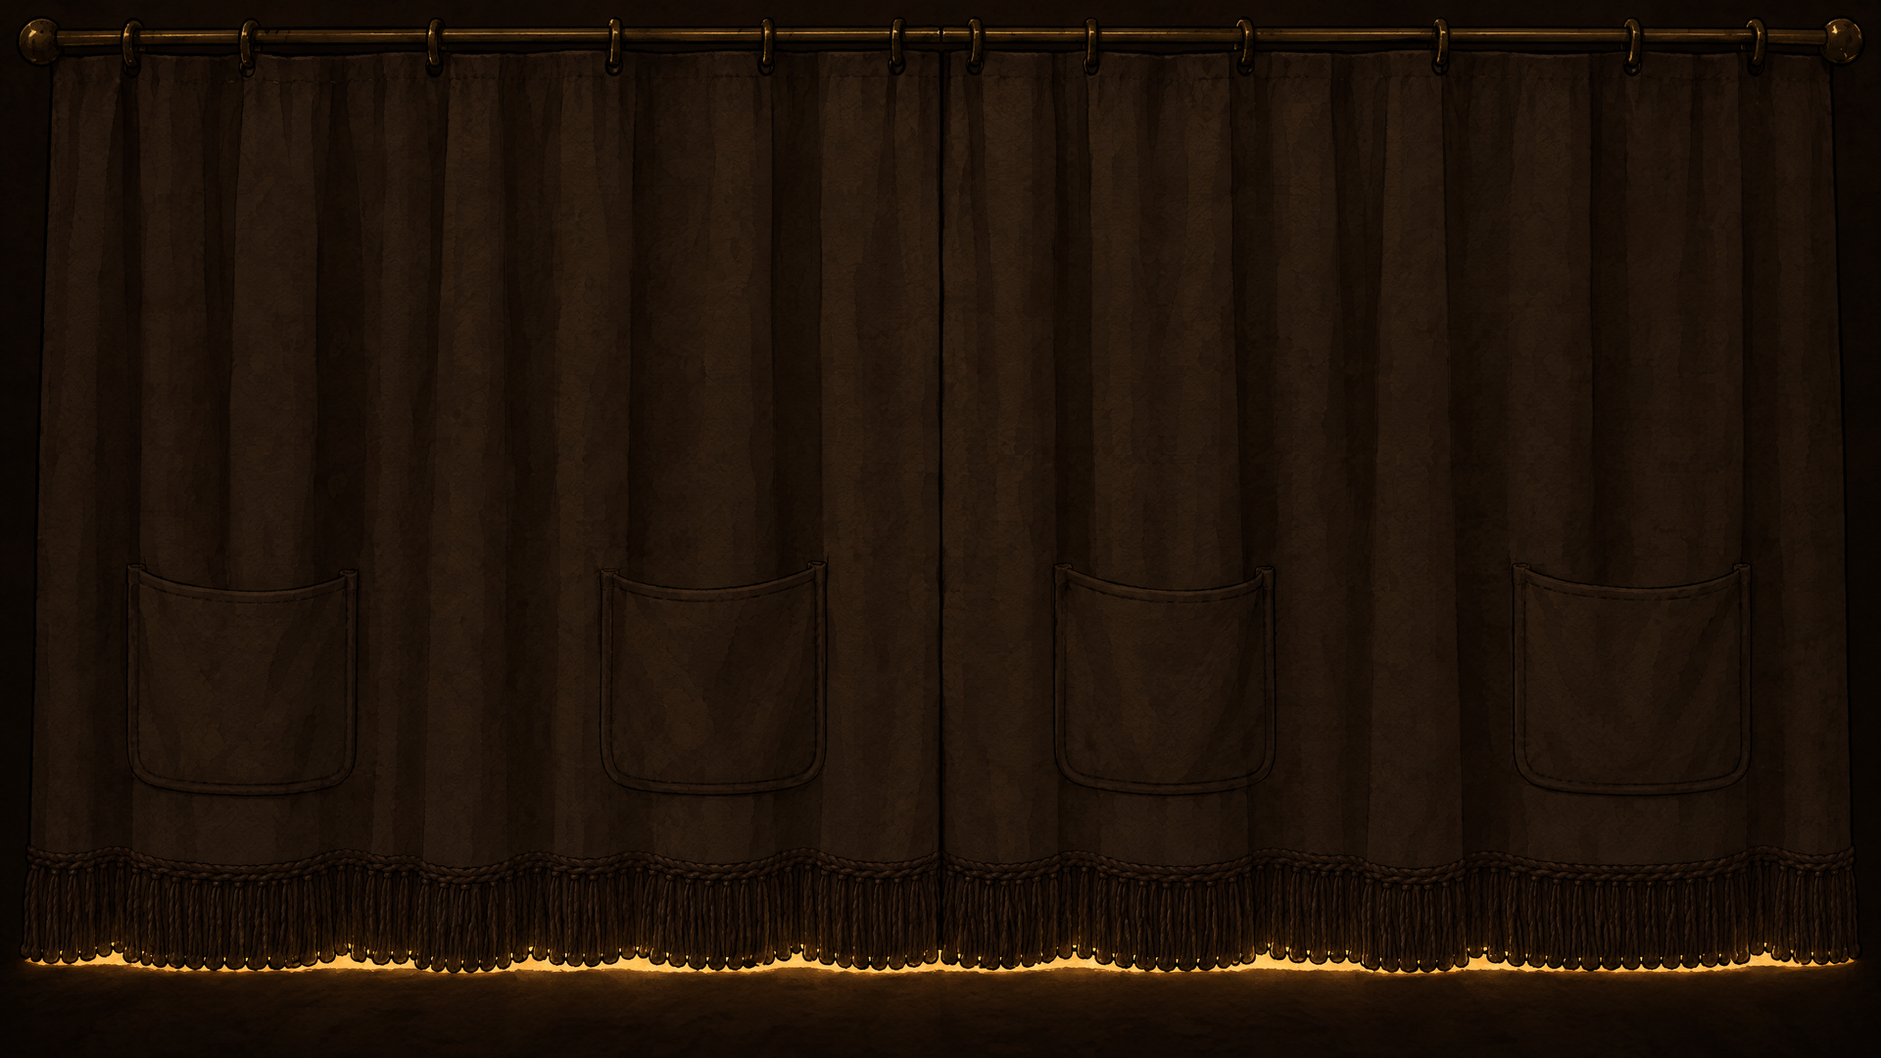
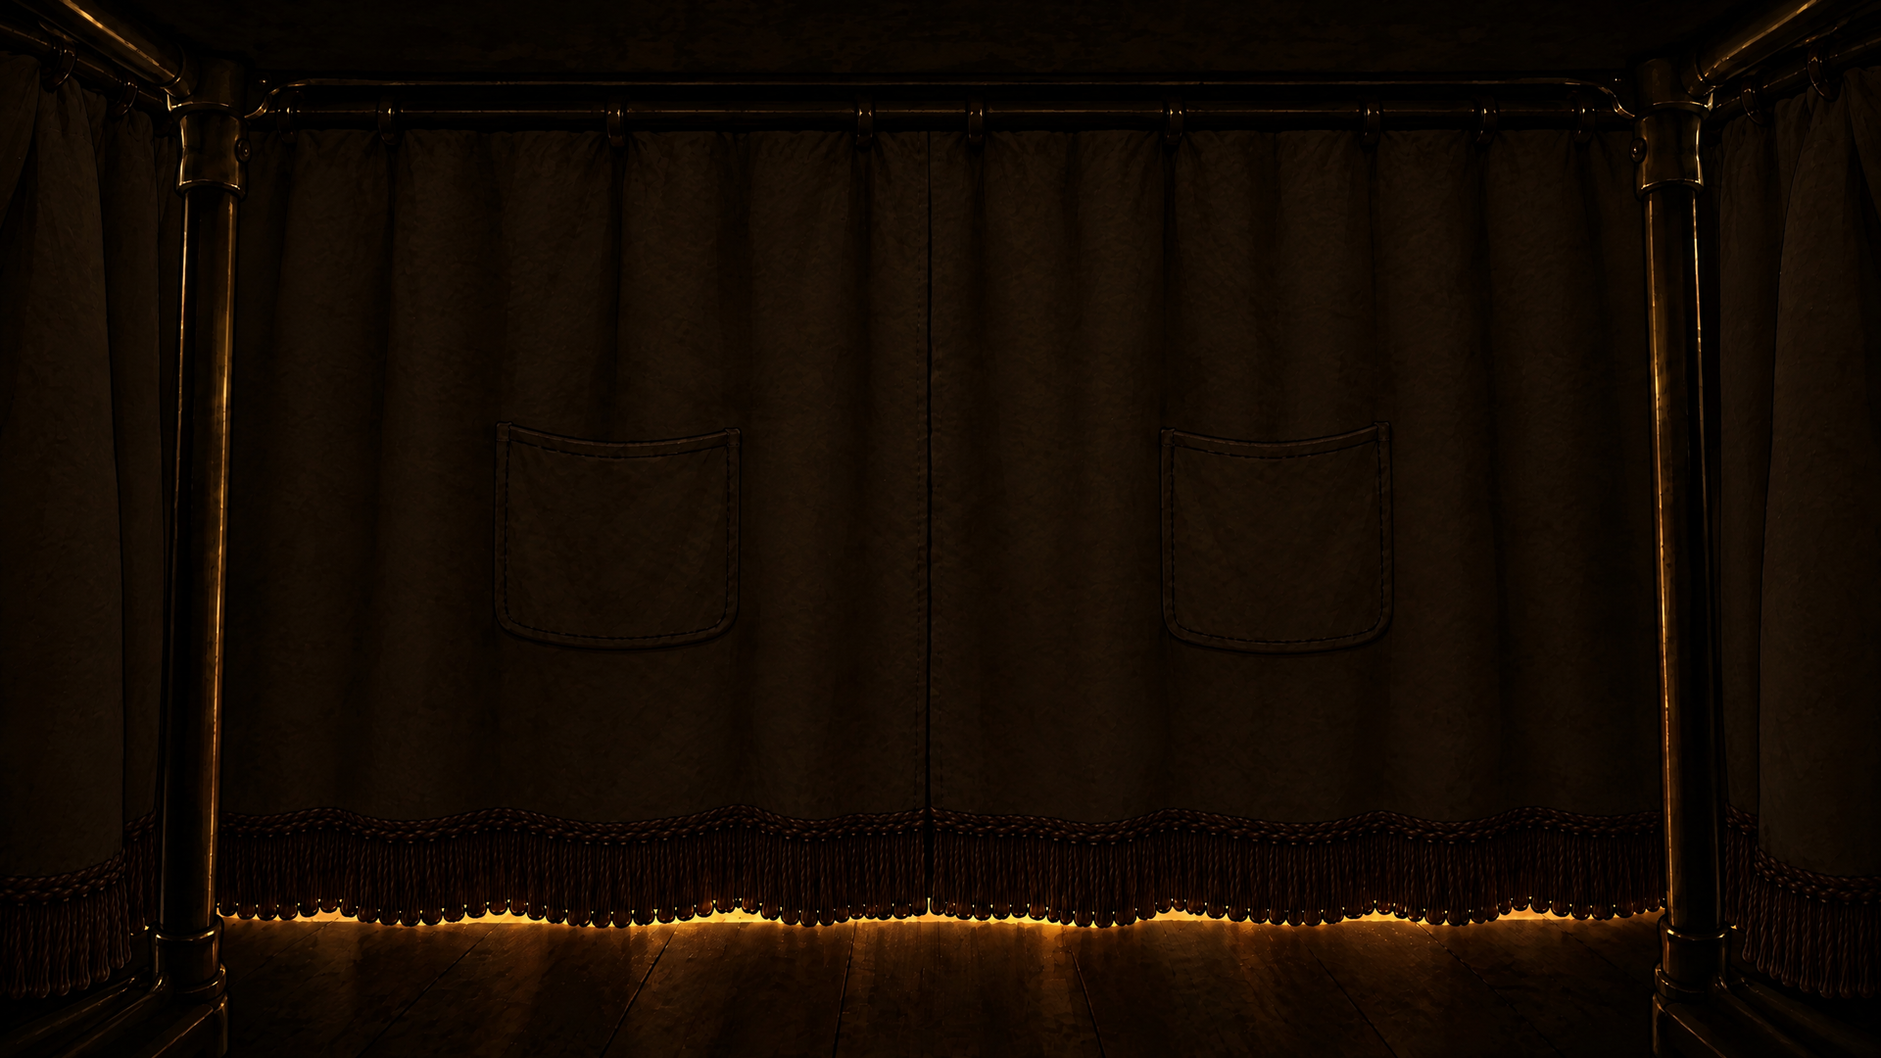
Пакет 6, юбка ред. 5: тележка как в ред. 3, шторы — в передней плоскости
Замечание автора: картинка была только образцом расположения штор, тележку
оставить. ov_skirt, ov_skirt_open, ov_skirt__dark, fr_a3_dark — правка ред. 3:
рама (стойки, низ столешницы, штанга) прежняя, полотнища висят плоско прямо
перед глазами, раздвинуты влево-вправо. Ред. 4 снята; спека §2.7, README,
статус, листы.

Claude-Session: https://claude.ai/code/session_01Dks16BWKXJ1H75RWreeaNq

diff --git a/work/higgsfield/candidates/pack6_1012/README.md b/work/higgsfield/candidates/pack6_1012/README.md
@@ -6,7 +6,7 @@
 
 ## Решения автора 12.10.2026 (вторая половина дня)
 
-1. **Юбка — открытые шторы прямо перед глазами.** Замечания автора по очереди: «отодвигается вбок как шторка, а не поднимается вверх как театральный занавес»; «шторка с внешней стороны и разъезжается влево и вправо, как занавески перед окном»; и с картинкой-образцом (`work/higgsfield/ref_author_curtains_1012.jpg`): «открытые шторы находятся ПЕРЕД глазами, а не по бокам, а у тебя они на левой и правой стенке внутри тележки». Ред. 4 нарисована по картинке автора: прямая латунная штанга с кольцами поперёк верха кадра, от неё отвесно два полотнища у левого и правого края, всё в одной плоскости, без перспективы; изнанка кремовой ткани со швами кармашков, бахрома внизу. Ред. 1–3 сняты. Спека §2.7 поправлена.
+1. **Юбка — тележка изнутри, шторы спереди.** Замечания автора по очереди: «отодвигается вбок как шторка, а не поднимается вверх как театральный занавес»; «шторка с внешней стороны и разъезжается влево и вправо, как занавески перед окном»; «открытые шторы находятся ПЕРЕД глазами, а не по бокам» (с картинкой `work/higgsfield/ref_author_curtains_1012.jpg`); «образец был только про расположение штор; тележку оставить, изменить только расположение штор на переднем плане». Ред. 5 — правка ред. 3: рама тележки та же (латунные стойки по краям, низ столешницы с ободом, штанга с кольцами), а полотнища висят плоско в передней плоскости, отвесно, сразу внутри стоек, раздвинуты влево и вправо. Ред. 4 (картинка автора, перерисованная целиком без тележки) снята. Спека §2.7 поправлена.
 2. **Толпа полураздета на всех картинках, включая принятые.** «Смешнее, если люди по возможности раздеты; особенно смешно, если у некоторых мужчин полотенце по-женски завёрнуто на голове». Полотенца и халаты по объявлению банного дня изъяты, поэтому по ответу автора гости в своём: майки, подтяжки, семейные трусы, кальсоны, носки на подвязках, комбинации, ночнушки, бигуди, а мужчины наматывают на голову по-женски свою рубашку или кофту. Спека §1.4 поправлена.
 3. **Реплика `SEQ.peek.3`:** «Человек сорок. И все, как назло, не вполне голые» — слово автора; внесено в `texts/rewrite/ACT1_TEXTS_EDITS.md`, `ACT1_TEXTS_FINAL.md` пересобран, `check_texts.py` — без ошибок.
 
@@ -14,10 +14,10 @@
 
 | Файл | Что | Проба |
 |---|---|---|
-| `ov_skirt.png` | штанга поперёк верха (7 % высоты), полотнища у краёв по 12 % ширины, отвесно до низа, бахрома внизу | c4b6ebe5 (у генератора полотнища были по 18 % — сжаты `skirt_overlay.py --panel 0.12`) |
-| `ov_skirt__alt2.png` | то же, полотнища уже, складки крупнее | 9b05fd6d |
+| `ov_skirt.png` | рама тележки (стойки, низ столешницы, штанга); полотнища в передней плоскости у стоек, по 11 % ширины, отвесно, швы кармашков, бахрома внизу | d84e26ff (правка ред. 3, c41e1dc9) |
+| `ov_skirt__alt2.png` | то же, стойки толще, полотнища без кармашков | f891b1a9 (правка ред. 3, baf90861) |
 | `ov_skirt__dark.png` | `ov_skirt` после `grade_dark.py --no-protect --k 0.30` — для тёмных кадров до появления Кухтулху (вопрос 1) | — |
-| `ov_skirt_open.png` | шторка раздвинута до упора, полотнища туго собраны у краёв (~4–5 %); для Z05 | bacd00dc |
+| `ov_skirt_open.png` | та же рама, полотнища раздвинуты до упора и собраны у стоек (~6 %); для Z05 | 94a2bc0a |
 
 Юбка нарисована на мадженте; `tools/assets/skirt_overlay.py` (новый) вырезает мадженту без розовой каймы и, если надо, подтягивает верхнюю полосу к норме спеки. `tools/assets/grade_dark.py` получил ключ `--no-protect`: светлая ткань не лампа и должна гаснуть вместе с кадром.
 
@@ -38,7 +38,7 @@
 | `fr_a2_under_exhibit.png` | `SEQ.exhibit.go` | у экспоната: витрина со счётчиком; у таблички — те же двое, что в Z05: она в комбинации и коричневых туфлях, он в трусах в полоску, носках на подвязках и тапках | f107a176 |
 | `fr_a3_lobby_hush.png` | `SEQ.report` | вестибюль затих: все ступни в профиль повёрнуты к громкоговорителю на колонне справа; брошенный тапок носком в другую сторону, опрокинутая чашка | 505a3247 |
 | `fr_a3_ride_under.png` | `SEQ.ride` | из-под юбки в кабине 1908 года: мыльная рука задёргивает латунную решётку, за прутьями горит лампа поста; крошки круассана | 42a6214f |
-| `fr_a3_dark.png` | `SEQ.descent` | почти черно: шторка задёрнута прямо перед глазами — штанга с кольцами, полотнища сошлись швом посередине, кармашки; под подолом с бахромой — полоска тёплого света; оверлея нет (§4.2) | ad2f9a46 |
+| `fr_a3_dark.png` | `SEQ.descent` | почти черно: силуэты стоек рамы и низа столешницы, передняя шторка задёрнута прямо перед глазами (два полотнища сошлись швом, кармашки), под подолом с бахромой — полоска тёплого света; оверлея нет (§4.2) | 2f933eb5 |
 | `fr_epi_laundry.png` | `EPI.*` | прачечная, вода есть: барабаны крутятся, люк ближней машины открыт и парит, на машине сложены пиджак, рубашка, галстук | bdaff360 |
 | `fr_epi_minibar.png` | `EPI.0–2` | как Z02: на ручке новое меню (чистая карточка), кефир вместо комбучи. Гэг: моль на крышке кефира | c8bc17fb |
 | `fr_epi_bath17.png` | `EPI.3` | коридор водолечебницы: дверь с табличкой «№ 17», жетон с пробитой серединой, пар из-под двери. Гэг: тапки — белый и синий | ad8561dc |

diff --git a/docs/BJ3_ASSET_SPEC.md b/docs/BJ3_ASSET_SPEC.md
@@ -259,8 +259,8 @@
 
 | Файл | Размер | Что |
 |---|---|---|
-| `ov_skirt.png` | 1920×1080 RGBA | раздвинутая шторка юбки прямо перед глазами, как открытые занавески перед окном (решения автора 12.10.2026, эталон — картинка автора `work/higgsfield/ref_author_curtains_1012.jpg`): во фронт, без перспективы, в одной плоскости; сверху поперёк кадра прямая латунная штанга с кольцами под низом столешницы (≈ 7 % высоты), от неё отвесно до низа кадра два полотнища у левого и правого края (≈ 12 % ширины), изнанка кремовой ткани, проступают швы кармашков, бахрома только по низу; середина открыта. Не рисовать полотнища вдоль боковых стенок тележки в перспективе и не поднимать ткань вверх. Накладывается на все виды «из-под юбки» |
-| `ov_skirt_open.png` | 1920×1080 RGBA | то же, шторка раздвинута до упора: штанга поперёк верха, полотнища туго собраны у краёв (≈ 8 %). Для `zoom_z05.png` |
+| `ov_skirt.png` | 1920×1080 RGBA | вид изнутри тележки (решения автора 12.10.2026): ближе к глазу латунная рама 1908 года — угловые стойки у левого и правого края, сверху низ столешницы с ободом и штанга с кольцами; шторка висит в передней плоскости прямо перед глазами и раздвинута влево и вправо, как занавески перед окном (картинка автора `work/higgsfield/ref_author_curtains_1012.jpg` — только образец расположения штор, не стиль и не замена тележки): полотнища плоско, отвесно, сразу внутри стоек (≈ 11 % ширины), изнанка ткани со швами кармашков, бахрома только внизу; середина открыта. Не поднимать ткань вверх и не тянуть её вдоль боковых стенок в перспективе. Накладывается на все виды «из-под юбки» |
+| `ov_skirt_open.png` | 1920×1080 RGBA | то же (рама, столешница), шторка в передней плоскости раздвинута до упора и туго собрана у стоек (≈ 6–7 %). Для `zoom_z05.png` |
 
 ### 2.8. W6 — контора старшего по воде · `room_w6.png`
 
@@ -395,7 +395,7 @@
 | `fr_a2_under_exhibit.png` | 1920×1080 RGB | из-под юбки у экспоната: низкая витрина справа, у таблички туфли гостьи и тапочки её спутника, вестибюль дальше |
 | `fr_a3_lobby_hush.png` | 1920×1080 RGB | из-под юбки: затихший вестибюль — все ботинки, туфли и тапочки повёрнуты носками в одну сторону, к динамику на колонне |
 | `fr_a3_ride_under.png` | 1920×1080 RGB | из-под юбки в кабине: пол кабины, край юбки; мыльная рука задёргивает решётку изнутри, за прутьями мигает лампа поста (решение автора 08.10.2026: «Вниз» нажат снаружи, лифт ждёт закрытой решётки) |
-| `fr_a3_dark.png` | 1920×1080 RGB | темнота под юбкой при спуске: шторка задёрнута прямо перед глазами — штанга с кольцами поперёк верха, два полотнища сошлись швом посередине; по нижнему краю, под подолом с бахромой, — тонкая полоска света (по сдаче Акта III; исключение из нормы яркости — решение автора 06.10.2026) |
+| `fr_a3_dark.png` | 1920×1080 RGB | темнота под юбкой при спуске: силуэты стоек рамы и низа столешницы, передняя шторка задёрнута прямо перед глазами — два полотнища сошлись швом посередине; по нижнему краю, под подолом с бахромой, — тонкая полоска света (по сдаче Акта III; исключение из нормы яркости — решение автора 06.10.2026) |
 | `fr_a3_under_arrive.png` | 1920×1080 RGB | из-под юбки из кабины: решётка открыта, мокрый кафель приёмного пункта, ножка стола приёма, капли |
 | `fr_epi_laundry.png` | 1920×1080 RGB | прачечная: люк барабана открыт, на крышке барабана сложена влажная одежда Лапидуса (пиджак, рубашка, галстук), пар |
 | `fr_epi_minibar.png` | 1920×1080 RGB | номер 317: открытый мини-бар, на ручке новое меню (чистая карточка), на полке бутылка кефира |
